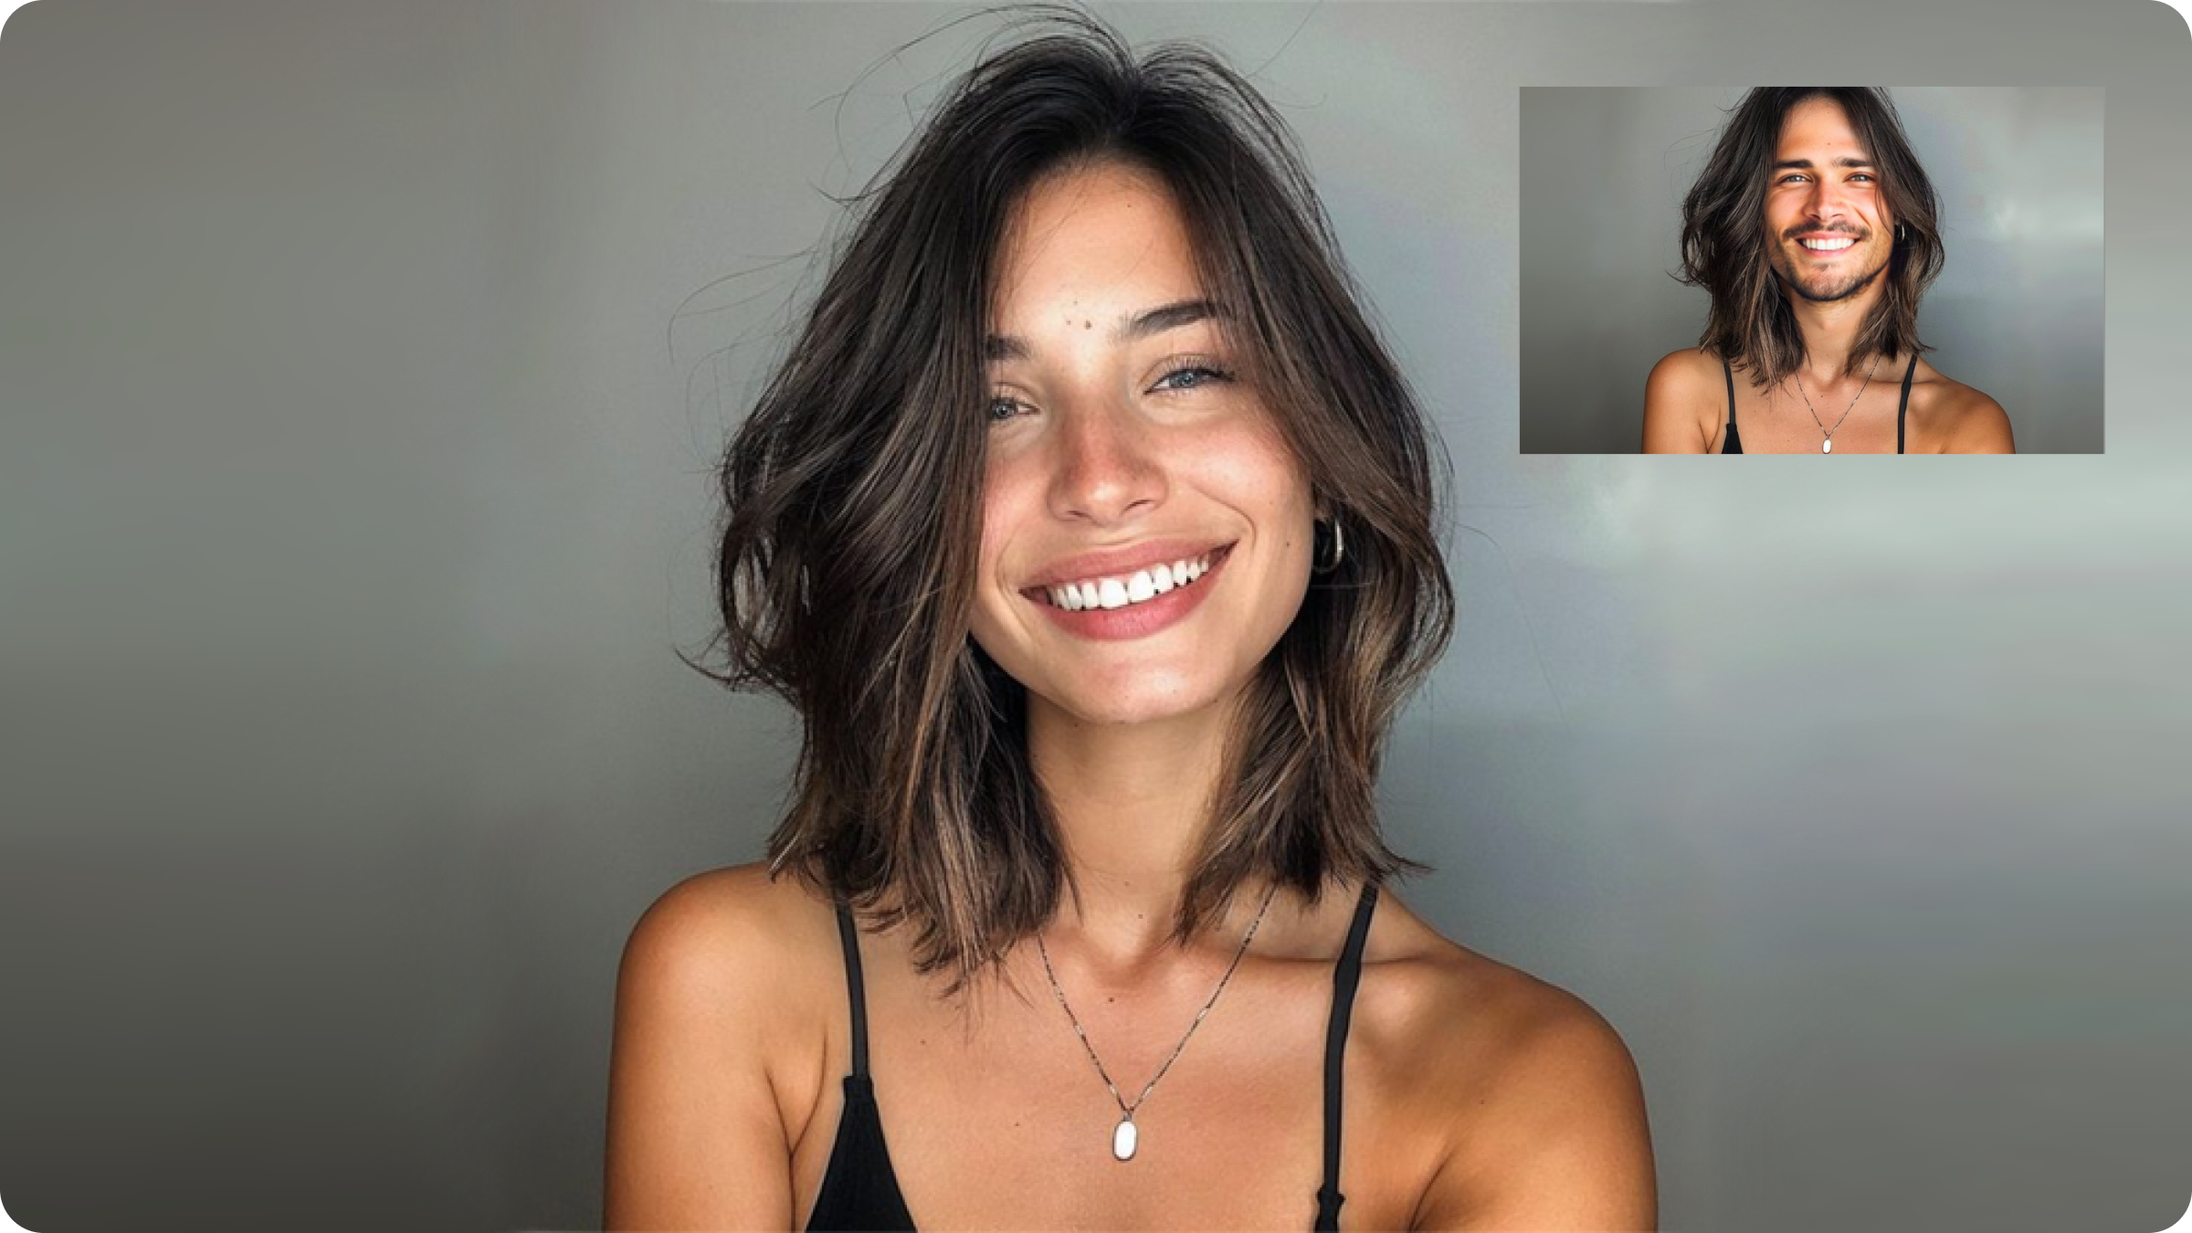
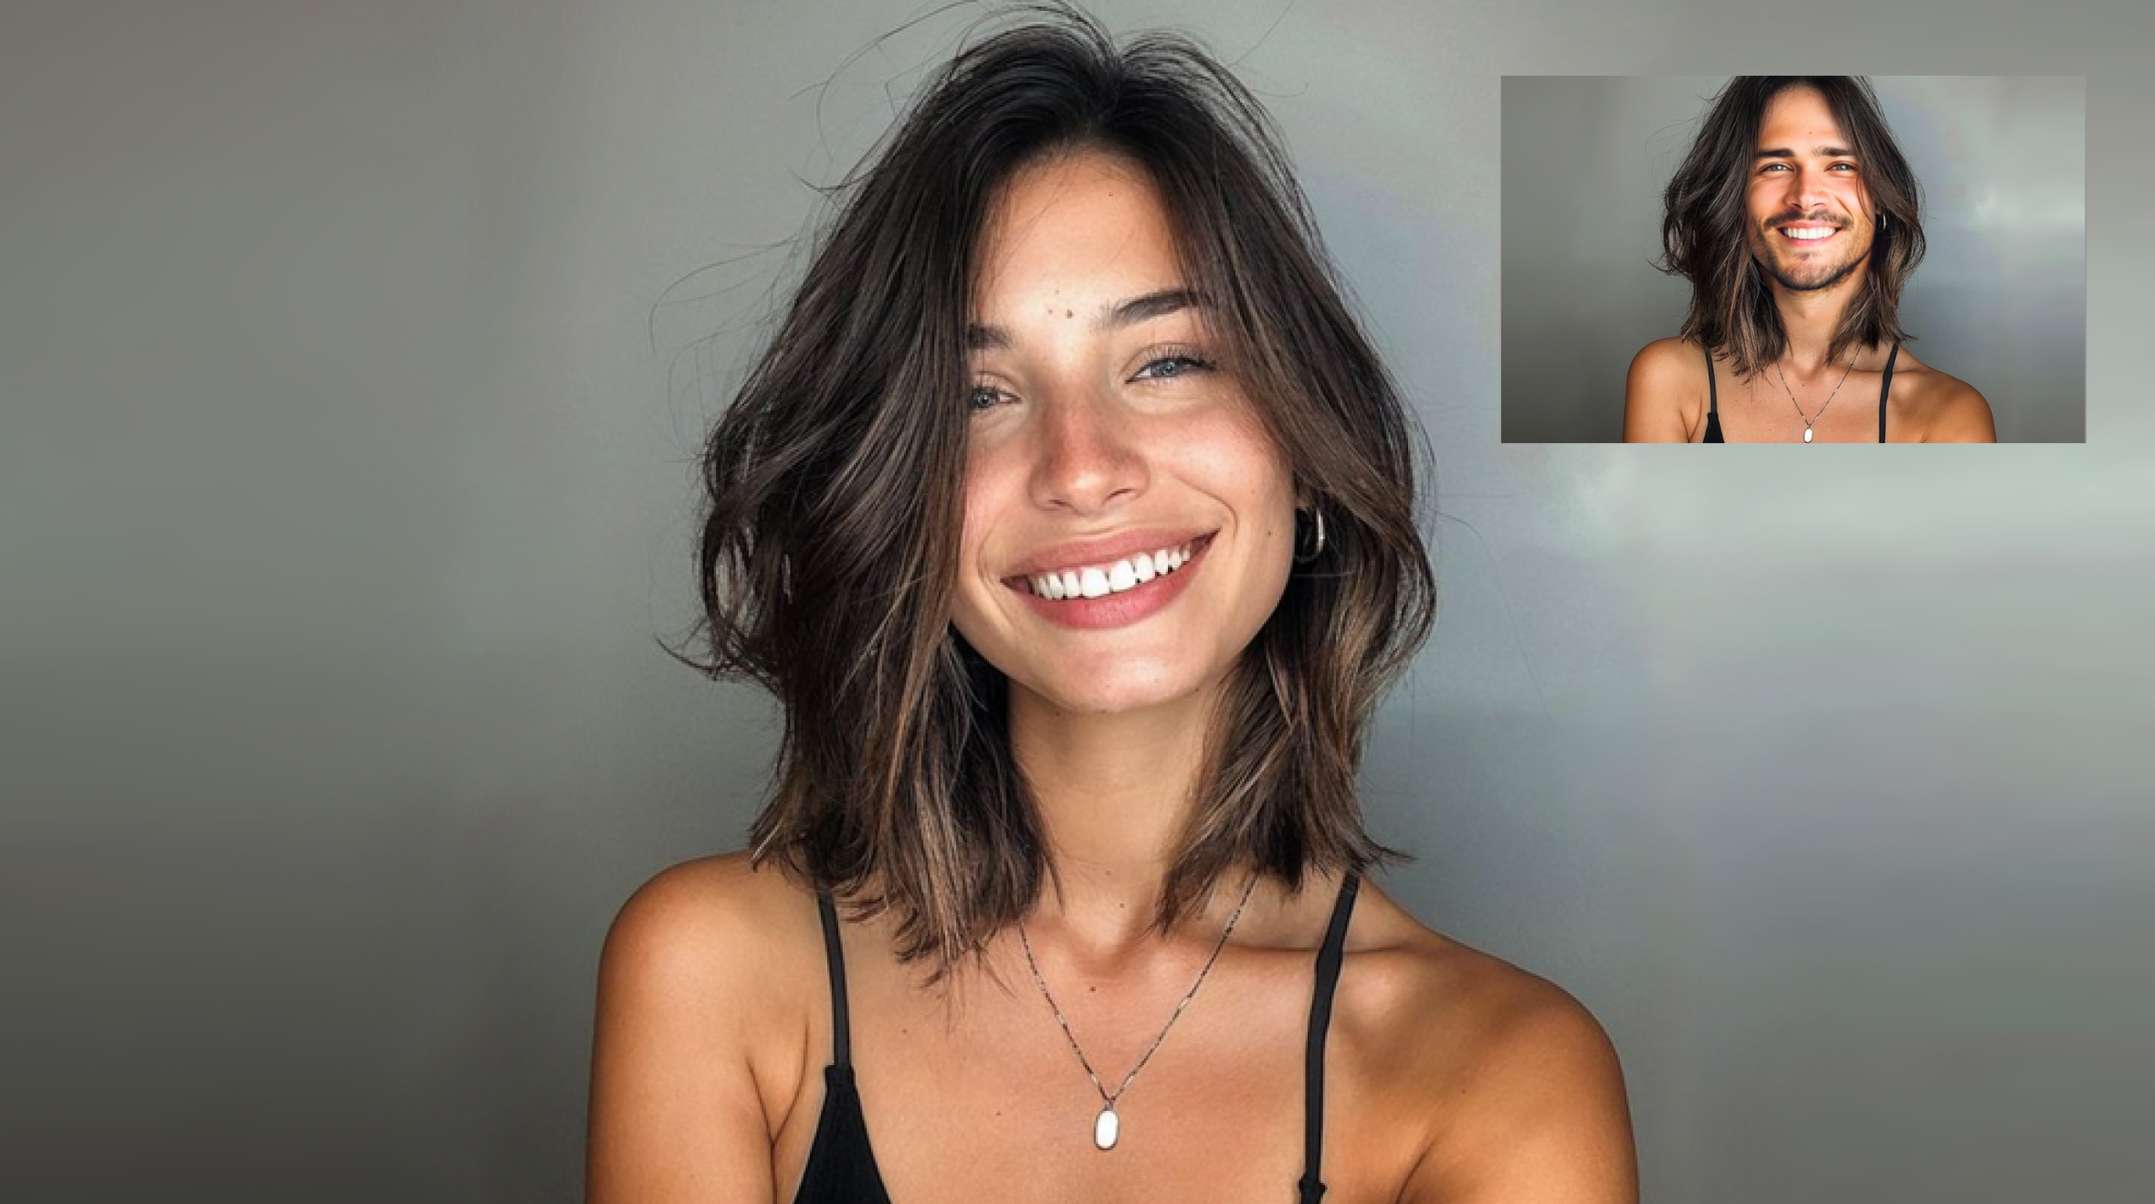
make main pic to fit screen ratio

diff --git a/src/pages/index2.tsx b/src/pages/index2.tsx
@@ -5,6 +5,7 @@ import { Router } from "lucide-react";
 import { useRouter } from "next/router";
 import { useState } from "react";
 import { Android_Download, H5_URL } from "@/constants/constant";
+import NavMenu from "@/components/NavMenu";
 const Home = () => {
 
   const router = useRouter();
@@ -31,72 +32,70 @@ const Home = () => {
     )
   }
 
+
+
   return (
-    <div className={`flex min-h-screen flex-col items-center justify-between bg-black`} >
-      <div className="flex relative w-full h-full pt-[200px] flex-col pb-[100px] sm:pb-28"
+    <div className={`flex min-h-screen flex-col items-center justify-between bg-black `} >
+      <div className="flex relative w-full h-full pt-24 flex-col pb-4 sm:pb-28"
         style={{
           backgroundImage: "url('/bg-1.jpg')",
           backgroundRepeat: 'no-repeat',
-          backgroundPosition: 'center bottom',
+          backgroundPosition: 'center top',
           backgroundSize: 'cover',
         }}
       >
-        <div className="w-[90%] mx-auto pt-0 sm:pt-10 flex flex-col justify-center items-center">
-          <div className="w-full max-w-[753px] ">
-            <ResponsiveImage src="/why-aime.png" />
-          </div>
-          <div className="text-left w-full text-white font-serif text-[38px] italic mt-16 lg:mt-32 mb-4 pl-4">
-            Pioneering AI Face-Swapping for Live Streaming</div>
-          <div className="w-full flex justify-center items-center">
-            <div className="flex flex-1 justify-center items-center rounded-[30px] 
+
+        <NavMenu />
+
+        <div className="w-full max-w-6xl mx-auto pt-0 sm:pt-10">
+          <ResponsiveImage src="/briefIntroduction.png" className="rounded-[25px]" />
+          <div className="w-full flex justify-center mt-6">
+            <div className="flex flex-1 justify-center items-center rounded-[30px] mt-0 sm:mt-20 
                p-1 sm:p-2 m-4 bg-gradient-to-r from-[#FF1CF7] to-[#00F0FF]"
             >
               <ResponsiveImage src="/main-1.jpg" className="rounded-[25px]" />
             </div>
-          </div>
-          <div className="text-white text-center text-[28px] mt-[30px] mx-4">
-            Captivate your audience with a dynamic on-screen presence.
           </div>
         </div>
       </div>
 
       <div className="sm:hidden block">
         <div className='flex flex-row gap-4 mt-4 mb-2'>
-          <Image src="/andriod.png" width={150} height={60} alt="logo" className='object-contain' />
-          <Image src="/apple.png" width={150} height={60} alt="logo" className='object-contain'
+          <Image src="/andriod.png" width={150} height={60} alt="logo" className='object-contain cursor-pointer'
+            onClick={() => router.push(Android_Download)} />
+          <Image src="/apple.png" width={150} height={60} alt="logo" className='object-contain cursor-pointer'
             onClick={() => router.push('/addIcon')} />
         </div>
         <p className='font-serif text-2xl text-white mb-4 text-center'>Download now</p>
       </div>
 
       {/* section 2 */}
-      <div className="flex relative w-full h-full flex-col lg:flex-row justify-center z-10 bg-white"
+      <div className="flex relative w-full h-full flex-row justify-center  z-10 bg-white"
         style={{
           backgroundImage: "url('/bg-blue.png')",
           backgroundRepeat: 'no-repeat',
-          backgroundPosition: 'right top',
+          backgroundPosition: 'center top',
           backgroundSize: 'cover',
         }}>
-        <div className="flex flex-col lg:flex-row relative w-full max-w-[1400px] lg:pt-10 lg:pb-32 lg:pl-8">
-
+        <div className="flex flex-col lg:flex-row relative w-full max-w-[1400px] lg:p-10"
+        >
           {/* left heart logo column */}
-          <div className="flex flex-col justify-center items-center w-full flex-1 lg:pr-10 px-6">
-            <div className="mt-10 lg:mt-20 ">
+          <div className="flex flex-col justify-center items-center w-full lg:w-1/2 lg:pr-10 px-6 ">
+            <div className="mt-10 lg:mt-20 mb-20">
               <Image src="/1on1.png" width={200} height={200} alt="1on1 logo" />
               <p className="text-black text-[54px] font-serif italic">
-                Private Room--<br />
-                for 1-on-1 Live Streaming</p>
+                1-on-1 Live: Private Room</p>
               <p className="text-black text-[24px] mt-10 mb-20 font-serif">
-                Focus your talents on subscribers who truly value your work, without the pressure of large audiences.
+                1-on-1 Live Streaming: Engage in direct face-to-face interaction with the host
               </p>
             </div>
           </div>
 
           {/* right video */}
-          <div className="flex flex-1 justify-center items-center relative  mb-10 lg:mt-0 lg:mb-10">
+          <div className="flex flex-1 justify-center items-center relative mt-[-80px] mb-10 lg:mt-0 lg:mb-10">
 
             {/* video */}
-            <div className="rounded-[40px] w-[88%] max-w-[375px] lg:w-[390px] h-[815px] absolute top-0 lg:top-[100px]">
+            <div className="rounded-[40px] w-[88%] max-w-[370px] lg:w-[390px] h-[815px] absolute top-0 lg:top-[100px]">
               <video controls={false} autoPlay muted loop playsInline
                 className="w-full h-full object-cover rounded-[50px]"
               >
@@ -107,11 +106,11 @@ const Home = () => {
 
             {/* frame */}
             <div className="rounded-[30px] w-[100%] max-w-[408px] lg:w-[408px] h-[820px] lg:absolute top-[95px] ml-2 lg:ml-0 mt-[-5px]">
-              <div className=" w-[97%] lg:w-[408px] h-[832px] relative">
+              <div className=" w-[97%] max-w-[408px] lg:w-[408px] h-[832px] relative">
                 <Image src="/frame.png" fill sizes="100%" alt="frame" className="z-40" />
               </div>
 
-              <div className="absolute w-[98%]  max-w-[420px] bottom-2 lg:ml-[-120px]">
+              <div className="absolute w-[98%] max-w-[320px] bottom-2 lg:ml-[-120px]">
                 <div className="w-full lg:w-[520px] h-[220px] lg:h-[320px] relative scale-90 z-40 ml-[-16px] lg:ml-0">
                   <Image src="/video-graphics.png" fill sizes="100%" alt="frame" className="z-40" />
                 </div>
@@ -123,7 +122,7 @@ const Home = () => {
 
 
       {/* section 3 */}
-      <div className="flex relative w-full h-full flex-col justify-center items-center mt-10 lg:mt-40 "
+      <div className="flex relative w-full h-full flex-col justify-center items-center mt-10 lg:mt-32 "
         style={{
           backgroundImage: "url('/bg-3.png')",
           backgroundRepeat: 'no-repeat',
@@ -133,7 +132,7 @@ const Home = () => {
       >
 
         {/* Private show */}
-        <div className="flex w-full max-w-7xl flex-col xl:flex-row mt-10 sm:mt-40 mb-20 sm:mb-0 px-4 gap-4">
+        <div className="flex w-full max-w-7xl flex-col lg:flex-row mt-10 sm:mt-40 mb-20 sm:mb-0 px-4 gap-4">
 
           <div className="flex flex-1 justify-center items-center">
             <div className="rounded-[30px] w-[600px] h-[800px]">
@@ -146,41 +145,29 @@ const Home = () => {
             </div>
           </div>
 
-          <div className="flex flex-1 items-center justify-center mt-10 sm:mt-0 text-white pl-2 sm:pl-16">
-            <div className="flex flex-row">
-              <div className="w-[10px] h-[380px] relative">
-                <Image src="/line-v.png" fill sizes="100%" alt="private show" className="object-fit" />
+          <div className="flex flex-1 items-center justify-center mt-10 sm:mt-0 text-white">
+            <div className="flex flex-col">
+              <div className="w-[320px] h-[245px] relative">
+                <Image src="/privateShow.png" fill sizes="100%" alt="private show" className="object-contain" />
               </div>
-              <div className="flex flex-col pl-8 sm:ml-16">
-                <p className="text-white text-[54px] font-serif italic">
-                  Private Room--<br />
-                  for 1-on-1 Live Streaming</p>
-                <p className="text-white text-[20px] mt-10 mb-20 ">
-                  Imagine, create and perform your way. Host intimate shows, set your own pricing and audience limits.
-                </p>
+
+              <div className="text-[16px] flex flex-col lg:flex-row gap-4 mt-16">
+                <div className="px-6 py-2 rounded-full border border-white cursor-pointer flex justify-center items-start">
+                  Ticketed Entry
+                </div>
+                <div className="px-6 py-2 rounded-full border border-white cursor-pointer flex justify-center items-start">
+                  Guest Limit
+                </div>
               </div>
             </div>
           </div>
         </div>
 
         {/* Exclusive Media Unlock */}
-        <div className="flex w-full max-w-[1300px] flex-col sm:flex-row mt-4 sm:mt-40 p-4 gap-16">
-          <div className="flex flex-row flex-1 justify-center items-center">
-            <div className="w-[6px] h-[260px] relative">
-              <Image src="/line-v.png" fill sizes="100%" alt="private show" className="object-fit" />
-            </div>
-            <div className="flex flex-col ml-8">
-              <p className="text-white text-[54px] font-serif italic">
-                Exclusive Media Unlock</p>
-              <p className="text-white text-[20px] mt-10 ">
-                Directly monetize content that matches your
-                fans' preferences
-              </p>
-            </div>
-          </div>
-
+        <div className="flex w-full max-w-[1200px] flex-col sm:flex-row mt-4 sm:mt-40 p-4 gap-16">
           <div className="flex flex-1 flex-col">
-
+            <Image src="/line.png" width={132} height={6} alt="unlock-image" className="object-contain" />
+            <div className=" font-serif text-white italic text-[54px] my-8 ">Exclusive Meida Unlock</div>
             <div className="w-full h-[560px] sm:h-[750px] relative cursor-pointer"
               onClick={() => {
                 setOpen1(!open1)
@@ -199,10 +186,6 @@ const Home = () => {
 
             </div>
           </div>
-        </div>
-
-        {/* Exclusive Media Unlock */}
-        <div className="flex w-full max-w-[1200px] flex-col sm:flex-row mt-4 sm:mt-40 p-4 gap-16">
 
           <div className="flex flex-1 flex-col">
             <div className="w-full h-[570px] sm:h-[741px] relative cursor-pointer"
@@ -214,22 +197,10 @@ const Home = () => {
               <Image src="/custom.png" fill sizes="100%" alt="unlock-image" className="object-cover rounded-[30px]" />
               {open2 && <QRcodeButtons />}
             </div>
-
+            <div className=" font-serif text-white italic text-[54px] my-8 ">Customized Media</div>
+            <div className=" font-serif text-white text-[20px] mb-8">Signed Visuals Tailored by Hosts</div>
+            <Image src="/line.png" width={132} height={6} alt="unlock-image" className="object-contain" />
           </div>
-
-          <div className="flex flex-row flex-1 justify-center items-center">
-            <div className="w-[6px] h-[260px] relative">
-              <Image src="/line-v.png" fill sizes="100%" alt="private show" className="object-fit" />
-            </div>
-            <div className="flex flex-col ml-8">
-              <p className="text-white text-[54px] font-serif italic">
-                Customized Media</p>
-              <p className="text-white text-[20px] mt-10 ">
-                Signed visuals tailored by Hosts deserve good value
-              </p>
-            </div>
-          </div>
-
         </div>
 
         {/* Chat with Fans Using an AI Persona */}
@@ -280,55 +251,29 @@ const Home = () => {
       </div>
 
       {/* section 4 - start to chat */}
-      <div className="flex relative w-full h-full flex-col items-center pb-20 px-4 bg-white"
+      <div className="flex relative w-full h-full flex-col items-center pb-20 px-4"
         style={{
           backgroundImage: "url('/bg-5.png')",
           backgroundRepeat: 'no-repeat',
-          backgroundPosition: 'center top',
+          backgroundPosition: 'center bottom',
           backgroundSize: 'cover',
         }}
       >
-        <div className="flex flex-row gap-2 w-full max-w-[1000px] justify-center items-center mt-40 px-4">
+        <div className="flex flex-row gap-2 w-full max-w-[1000px] justify-center items-center mt-[156px] mb-[164px] px-4">
           <Image src="/line-l.png" width={120} height={6} alt="line" className="object-contain hidden sm:block" />
           <p className="flex-1 font-serif text-[55px] italic leading-[50px] text-[#171717] font-bold scale-y-110 text-center">
-            Fair and Fast Payouts
+            Start to Chat
           </p>
           <Image src="/line-r.png" width={120} height={6} alt="line" className="object-contain hidden sm:block" />
-        </div>
-        <div className="text-[20px] my-[60px] text-center px-4">
-          Earn 80% of your revenue with the option for immediate withdrawals on transactions exceeding 100 coins.
-        </div>
-        <Image src="/payment.png" width={523} height={720} alt="ai-icon" className=" cursor-pointer" />
-        <div className="text-[20px] my-16 text-center px-4">
-          Step into the future of live streaming with AI Me, the premier AI-enhanced live streaming platform.
         </div>
 
-        <div className="flex flex-row gap-2 w-full max-w-[1000px] justify-center items-center mt-[156px] px-4">
-          <Image src="/line-l.png" width={120} height={6} alt="line" className="object-contain hidden sm:block" />
-          <p className="flex-1 font-serif text-[55px] italic leading-[50px] text-[#171717] font-bold scale-y-110 text-center">
-            Business Model:
-          </p>
-          <Image src="/line-r.png" width={120} height={6} alt="line" className="object-contain hidden sm:block" />
-        </div>
-        <div className=" flex flex-col items-center p-6 max-w-[1000px] mt-4 px-4">
-          <p className="text-lg text-gray-700 mb-6 text-center">
-            Explore our diverse range of monetization options designed to maximize your earnings and engage your audience. Whether through personalized one-on-one sessions, exclusive content, or interactive AI persona chats, our platform offers multiple avenues for generating income.
-          </p>
-          <div className="w-full max-w-2xl bg-white p-4 sm:p-10 rounded-lg shadow-md mb-4 border mt-6">
-            <h2 className="text-2xl text-center font-semibold text-blue-800 font-serif italic">Services through which you can earn</h2>
-            <ul className="list-disc list-inside text-gray-700 mt-6">
-              <li>1-on-1 Paid</li>
-              <li>Private Shows</li>
-              <li>Exclusive Video/Photo Unlock</li>
-              <li>Custom Media</li>
-              <li>Tips</li>
-              <li>AI persona chat income</li>
-            </ul>
-          </div>
-        </div>
-        <p className="text-lg text-gray-700 mb-6 text-center">
-          For more details, please contact: aime@aimeai.live
-        </p>
+        <Image src="/chat1.png" width={523} height={720} alt="ai-icon" className="mb-[240px] cursor-pointer"
+          onClick={() => router.push(H5_URL)} />
+        <Image src="/chat2.png" width={523} height={720} alt="ai-icon" className="mb-[240px] cursor-pointer"
+          onClick={() => router.push(H5_URL)} />
+        <Image src="/chat3.png" width={523} height={720} alt="ai-icon" className="mb-[230px] cursor-pointer"
+          onClick={() => router.push(H5_URL)} />
+
       </div>
 
     </div >

diff --git a/src/pages/index.tsx b/src/pages/index.tsx
@@ -47,15 +47,17 @@ const Home = () => {
 
         <NavMenu />
 
-        <div className="w-full max-w-6xl mx-auto pt-0 sm:pt-10">
+        <div className="w-[90%] mx-auto pt-0 sm:pt-10 text-center text-white">
           <ResponsiveImage src="/briefIntroduction.png" className="rounded-[25px]" />
           <div className="w-full flex justify-center mt-6">
-            <div className="flex flex-1 justify-center items-center rounded-[30px] mt-0 sm:mt-20 
+            <div className="flex flex-1 justify-center items-center rounded-[30px] mt-0 lg:mt-20 
                p-1 sm:p-2 m-4 bg-gradient-to-r from-[#FF1CF7] to-[#00F0FF]"
             >
               <ResponsiveImage src="/main-1.jpg" className="rounded-[25px]" />
             </div>
           </div>
+          <div className="font-serif text-3xl sm:text-[45px] italic mt-2 sm:mt-8 sm:leading-[70px]">AI Face-Swapping</div>
+          <div className="text-lg sm:text-[18px] font-serif mb-4 mt-2 sm:mt-7">Realistic and Vibrant, Transcend Yourself</div>
         </div>
       </div>
 
@@ -70,7 +72,7 @@ const Home = () => {
       </div>
 
       {/* section 2 */}
-      <div className="flex relative w-full h-full flex-row justify-center  z-10 bg-white"
+      <div className="flex relative w-full h-full flex-row justify-center z-10 bg-white"
         style={{
           backgroundImage: "url('/bg-blue.png')",
           backgroundRepeat: 'no-repeat',
@@ -95,7 +97,7 @@ const Home = () => {
           <div className="flex flex-1 justify-center items-center relative mt-[-80px] mb-10 lg:mt-0 lg:mb-10">
 
             {/* video */}
-            <div className="rounded-[40px] w-[88%] max-w-[370px] lg:w-[390px] h-[815px] absolute top-0 lg:top-[100px]">
+            <div className="rounded-[40px] w-[88%] max-w-[375px] lg:w-[390px] h-[815px] absolute top-0 lg:top-[100px]">
               <video controls={false} autoPlay muted loop playsInline
                 className="w-full h-full object-cover rounded-[50px]"
               >
@@ -221,7 +223,7 @@ const Home = () => {
                 backgroundSize: 'cover',
               }}>
 
-              <div className="flex py-10 px-4 sm:px-20 flex-col-reverse sm:flex-row justify-between items-center">
+              <div className="flex py-16 px-4 sm:px-20 flex-col-reverse sm:flex-row justify-between items-center">
                 <div className="flex flex-col justify-center w-full sm:w-1/2">
                   <p className="font-serif text-[52px] italic leading-[60px] mb-6">Chat with Fans Using an AI Persona</p>
                   <p className="mb-2 text-[20px] font-serif">You can’t chat with 100 fans at once, but "it" can! Plus, users can chat with AI persona at a low cost</p>
